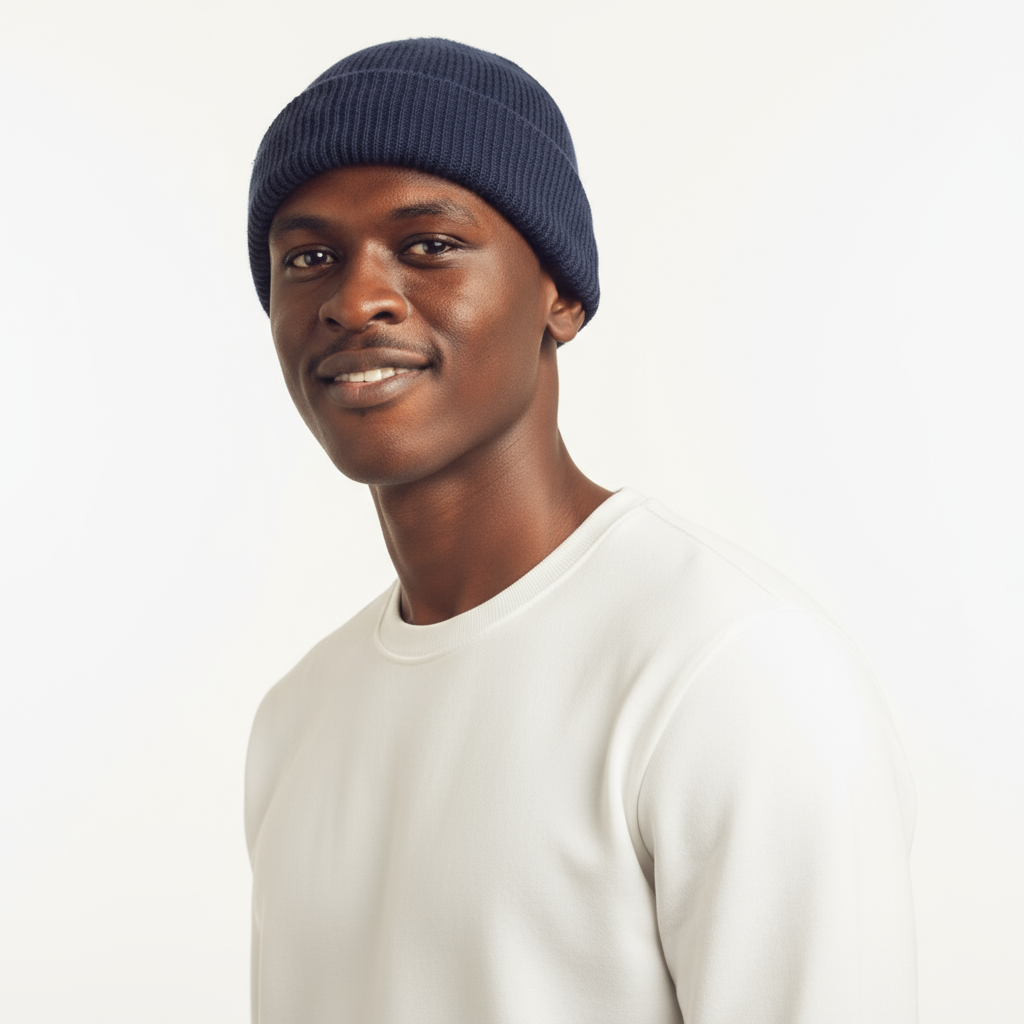
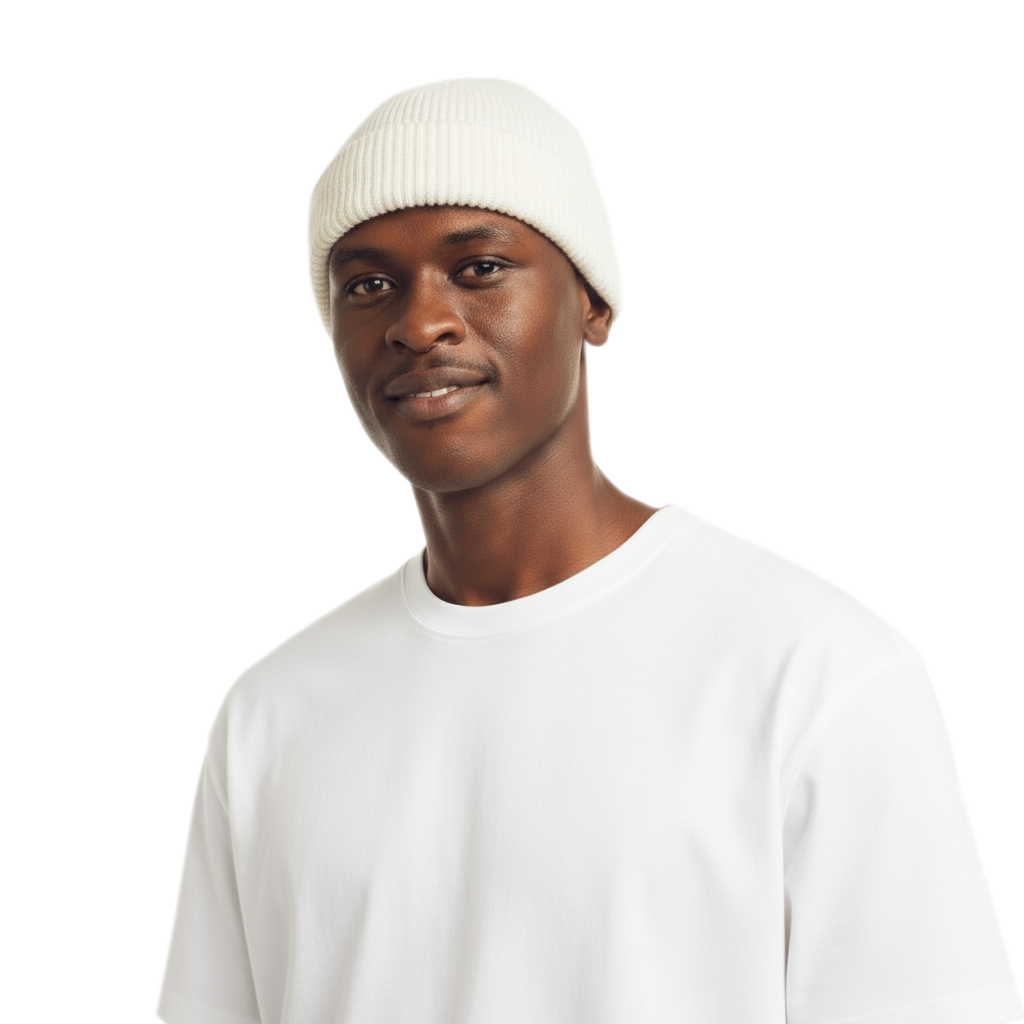
feat: update images in header and about section, add horizontal flip effect to about image

diff --git a/components/about-section.tsx b/components/about-section.tsx
@@ -6,14 +6,15 @@ export default function AboutSection() {
     <section className="container mx-auto py-10 items-center flex flex-col md:flex-row gap-20 font-sora">
       <figure className="px-10 md:p-0 md:w-1/2">
         <Image
-          src="/images/me-icon.svg"
+          src="/images/david-pic.png"
+          // src="/images/me-icon.svg"
           alt="About Me"
           width={1200}
           height={600}
           loading="lazy"
           fetchPriority="low"
           priority={false}
-          className="w-full h-auto"
+          className="w-full h-auto about-img"
         />
       </figure>
       <div className="flex-1 flex flex-col gap-6 px-10 md:p-0">
@@ -21,7 +22,7 @@ export default function AboutSection() {
           <span>About</span>
           <span className="font-bold text-primary"> Me</span>
         </h2>
-        <p className="text-base leading-relaxed">
+        <p className="text-sm leading-relaxed">
           {about.body.replace(/<br \/>/g, "\n").replace(/<\/?p>/g, "").split("\n").map((line, index) => (
             <span key={index}>
               {line}

diff --git a/components/header.tsx b/components/header.tsx
@@ -33,9 +33,10 @@ export default function Header() {
         <Socials />
       </div>
 
-      <figure className="w-full md:flex-1 flex items-center justify-center">
+      <figure className="w-full  md:flex-1 flex items-center justify-center overflow-hidden">
         <Image
-          src="/images/hero-icon-banner.svg"
+          src="/images/davd-hero.png"
+          // src="/images/hero-icon-banner.svg"
           alt="Orisabiyi Lab"
           width={600}
           height={600}
@@ -43,7 +44,7 @@ export default function Header() {
           preload={true}
           fetchPriority="high"
           // priority={true}
-          className="w-full h-full block object-cover"
+          className="w-full h-full block object-contain scale-120"
         />
       </figure>
     </header>

diff --git a/app/layout.tsx b/app/layout.tsx
@@ -106,7 +106,7 @@ export default function RootLayout({
   return (
     <html lang="en">
       <SpeedInsights />
-      <body className={`${sora.className} antialiased bg-white relative`}>{children}</body>
+      <body className={`${sora.className} antialiased relative bg-gray-100/50`}>{children}</body>
     </html>
   );
 }

diff --git a/app/globals.css b/app/globals.css
@@ -37,3 +37,7 @@ body {
 .scrollbar-hide::-webkit-scrollbar {
   display: none;
 }
+
+img.about-img {
+  transform: scaleX(-1);
+}
